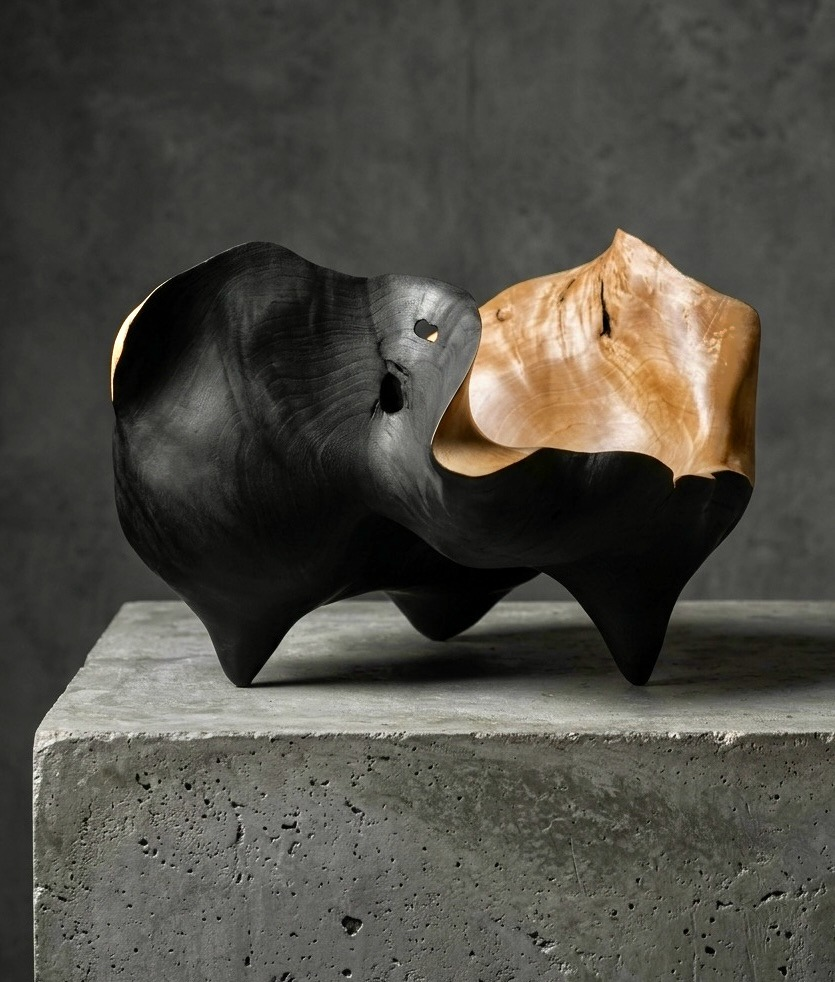
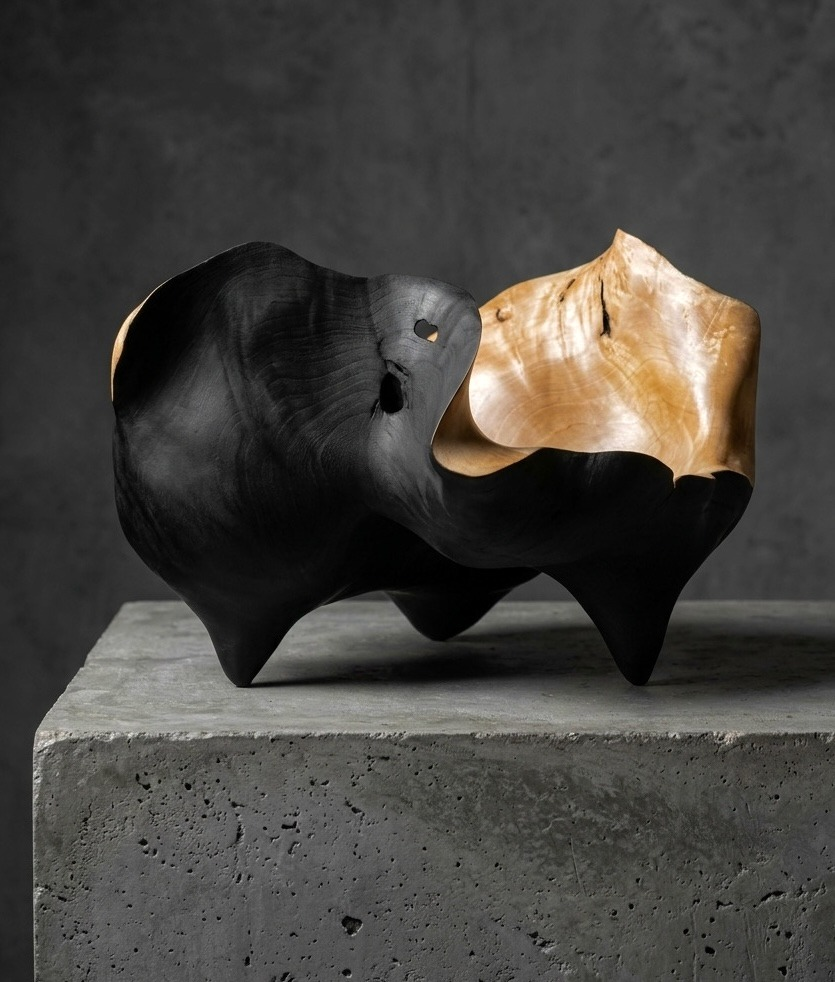
home: work-197 photo v4, recog labels & layout

diff --git a/index.html b/index.html
@@ -1304,93 +1304,7 @@ html body.page-home .cube-object::after {
 </style>
 
 
-<style id="home-recog-v2155">
-html body .craft-epigraph {
-  font-family: Manrope, sans-serif !important;
-  font-weight: 400 !important;
-  font-style: normal !important;
-  font-size: 22px !important;
-  line-height: 1.4 !important;
-  color: #1A1918 !important;
-  -webkit-text-fill-color: #1A1918 !important;
-  text-align: right !important;
-  max-width: none !important;
-  width: 100% !important;
-  margin: 12px 0 0 !important;
-  display: block !important;
-}
-@media (max-width: 768px) {
-  html body .craft-epigraph { font-size: 18px !important; }
-}
 
-html body .cube-recog .g12,
-html body .recog-wings,
-html body .recog-head {
-  width: 100% !important;
-  max-width: none !important;
-}
-html body .recog-wings.g12-span-12 {
-  grid-column: 1 / -1 !important;
-}
-
-html body .recog-section-label {
-  font-family: Manrope, sans-serif !important;
-  font-weight: 400 !important;
-  font-size: 22px !important;
-  color: #1A1918 !important;
-  -webkit-text-fill-color: #1A1918 !important;
-  text-transform: uppercase !important;
-  letter-spacing: 0.02em !important;
-  margin: 0 0 20px !important;
-}
-@media (max-width: 768px) {
-  html body .recog-section-label { font-size: 18px !important; }
-}
-
-html body .recog-item-year,
-html body .recog-item-place,
-html body .recog-event-tag {
-  font-family: 'Geist Mono', ui-monospace, monospace !important;
-  font-weight: 400 !important;
-  font-size: 12px !important;
-  letter-spacing: 0.04em !important;
-  text-transform: uppercase !important;
-  color: #6B5D52 !important;
-  -webkit-text-fill-color: #6B5D52 !important;
-  margin: 0 0 6px !important;
-}
-
-html body .recog-item-title {
-  font-family: Manrope, sans-serif !important;
-  font-weight: 500 !important;
-  font-size: 16px !important;
-  color: #1A1918 !important;
-  margin: 0 0 8px !important;
-}
-html body .recog-item-text {
-  font-family: Manrope, sans-serif !important;
-  font-weight: 400 !important;
-  font-size: 14px !important;
-  line-height: 1.5 !important;
-  color: #1A1918 !important;
-  margin: 0 0 8px !important;
-}
-html body .recog-item-more {
-  font-family: Manrope, sans-serif !important;
-  font-size: 14px !important;
-  color: #1A1918 !important;
-  text-decoration: none !important;
-  border-bottom: 1px solid #1A1918 !important;
-  display: inline-block !important;
-  margin-bottom: 24px !important;
-}
-html body .recog-item-more:hover {
-  color: #B6452C !important;
-  border-bottom-color: #B6452C !important;
-}
-html body .recog-item { margin-bottom: 8px !important; }
-html body .expo-title { display: none !important; }
-</style>
 
 
 <style id="home-epigraph-v2156">
@@ -1440,6 +1354,81 @@ html body.page-home .cube-recog,
 html body.page-home footer.site-footer {
   background: #F7F6F2 !important;
   background-color: #F7F6F2 !important;
+}
+</style>
+
+
+<style id="home-recog-v2158">
+html body .cube-recog .g12 {
+  width: 100% !important;
+  max-width: none !important;
+}
+html body .recog-head,
+html body .recog-wings.g12-span-12 {
+  grid-column: 1 / -1 !important;
+  width: 100% !important;
+}
+html body .recog-wings {
+  display: grid !important;
+  grid-template-columns: 1fr 1fr !important;
+  gap: 48px !important;
+  max-width: 1100px !important;
+  margin: 0 auto !important;
+  width: 100% !important;
+  box-sizing: border-box !important;
+  padding: 0 24px !important;
+}
+html body .recog-head {
+  text-align: center !important;
+  max-width: 1100px !important;
+  margin-left: auto !important;
+  margin-right: auto !important;
+}
+
+html body .recog-section-label {
+  font-family: Manrope, sans-serif !important;
+  font-weight: 400 !important;
+  font-size: 22px !important;
+  color: #1A1918 !important;
+  -webkit-text-fill-color: #1A1918 !important;
+  text-transform: none !important;
+  letter-spacing: 0 !important;
+  margin: 0 0 20px !important;
+}
+@media (max-width: 768px) {
+  html body .recog-wings {
+    grid-template-columns: 1fr !important;
+    gap: 32px !important;
+    padding: 0 16px !important;
+  }
+  html body .recog-section-label {
+    font-size: 18px !important;
+  }
+}
+
+html body .recog-item-year {
+  font-family: 'Geist Mono', ui-monospace, monospace !important;
+  font-weight: 400 !important;
+  font-size: 12px !important;
+  letter-spacing: 0.04em !important;
+  text-transform: uppercase !important;
+  color: #6B5D52 !important;
+  -webkit-text-fill-color: #6B5D52 !important;
+  margin: 0 0 8px !important;
+}
+
+html body .recog-item-more {
+  font-family: Manrope, sans-serif !important;
+  font-size: 14px !important;
+  color: #1A1918 !important;
+  text-decoration: none !important;
+  border-bottom: 1px solid #1A1918 !important;
+  display: inline-block !important;
+  margin: 4px 0 24px !important;
+}
+html body .recog-item-more:hover {
+  color: #B6452C !important;
+  border-bottom-color: #B6452C !important;
 }
 </style>
 
@@ -1499,7 +1488,7 @@ html body.page-home footer.site-footer {
 
       <article class="lookbook-card">
         <a href="/works/work-197/" class="lookbook-img">
-          <img src="/images/works/work-197.jpg?v=3" alt="№ 197" loading="lazy">
+          <img src="/images/works/work-197.jpg?v=4" alt="№ 197" loading="lazy">
         </a>
         <p class="lookbook-meta"><span class="lookbook-no">[№&nbsp;197]</span> · В НАЛИЧИИ</p>
         <p class="lookbook-price">1&nbsp;300&nbsp;BYN ≈ 37&nbsp;200&nbsp;₽</p>
@@ -1581,35 +1570,33 @@ html body.page-home footer.site-footer {
 
         <div class="recog-wings g12-span-12">
       <div class="recog-left">
-        <p class="recog-section-label">ИЗБРАННЫЕ ВЫСТАВКИ</p>
+        <p class="recog-section-label">Избранные выставки</p>
 
         <article class="recog-item">
           <p class="recog-item-year">2026 · ТРЫН*ТРАВА</p>
-          <p class="recog-item-place">ON VIEW · МИНСК</p>
-          <p class="recog-item-title">9-я выставка «Трын*Трава. Современный русский стиль»</p>
+<p class="recog-item-title">9-я выставка «Трын*Трава. Современный русский стиль»</p>
           <p class="recog-item-text">Москва, Музей-усадьба Муравьёвых-Апостолов. Более 80 авторов — признанные художники, дизайнеры и мастера традиционных производств, начинающие креаторы.</p>
-          <a href="/works/exhibitions/" class="recog-item-more">Подробнее</a>
+          <a href="/works/exhibitions/" class="recog-item-more">Подробнее →</a>
         </article>
 
         <article class="recog-item">
           <p class="recog-item-year">2026 · UNITED BY ART</p>
-          <p class="recog-item-place">ON VIEW · МОСКВА</p>
-          <p class="recog-item-title">Международная выставка-конкурс современного искусства «UNITED BY ART»</p>
+<p class="recog-item-title">Международная выставка-конкурс современного искусства «UNITED BY ART»</p>
           <p class="recog-item-text">3-е место в номинации «Человек и его мир», раздел скульптура. Москва / «Гоголь Арт».</p>
-          <a href="/works/exhibitions/" class="recog-item-more">Подробнее</a>
+          <a href="/works/exhibitions/" class="recog-item-more">Подробнее →</a>
         </article>
 
         <article class="recog-item">
           <p class="recog-item-year">2026 · ISTANBUL</p>
           <p class="recog-item-title">XXVII Международный фестиваль культуры и искусств</p>
           <p class="recog-item-text">Турция, Стамбул</p>
-          <a href="/works/exhibitions/" class="recog-item-more">Подробнее</a>
+          <a href="/works/exhibitions/" class="recog-item-more">Подробнее →</a>
         </article>
 
         <a href="/works/exhibitions/" class="recog-pdf">Смотреть выставочный архив (5 объектов) →</a>
       </div>
       <div class="recog-right">
-        <p class="recog-section-label">БЛИЖАЙШАЯ ЭКСПОЗИЦИЯ</p>
+        <p class="recog-section-label">Ближайшие события</p>
 
         <article class="recog-event">
           <p class="recog-event-tag">ON VIEW · МИНСК</p>
